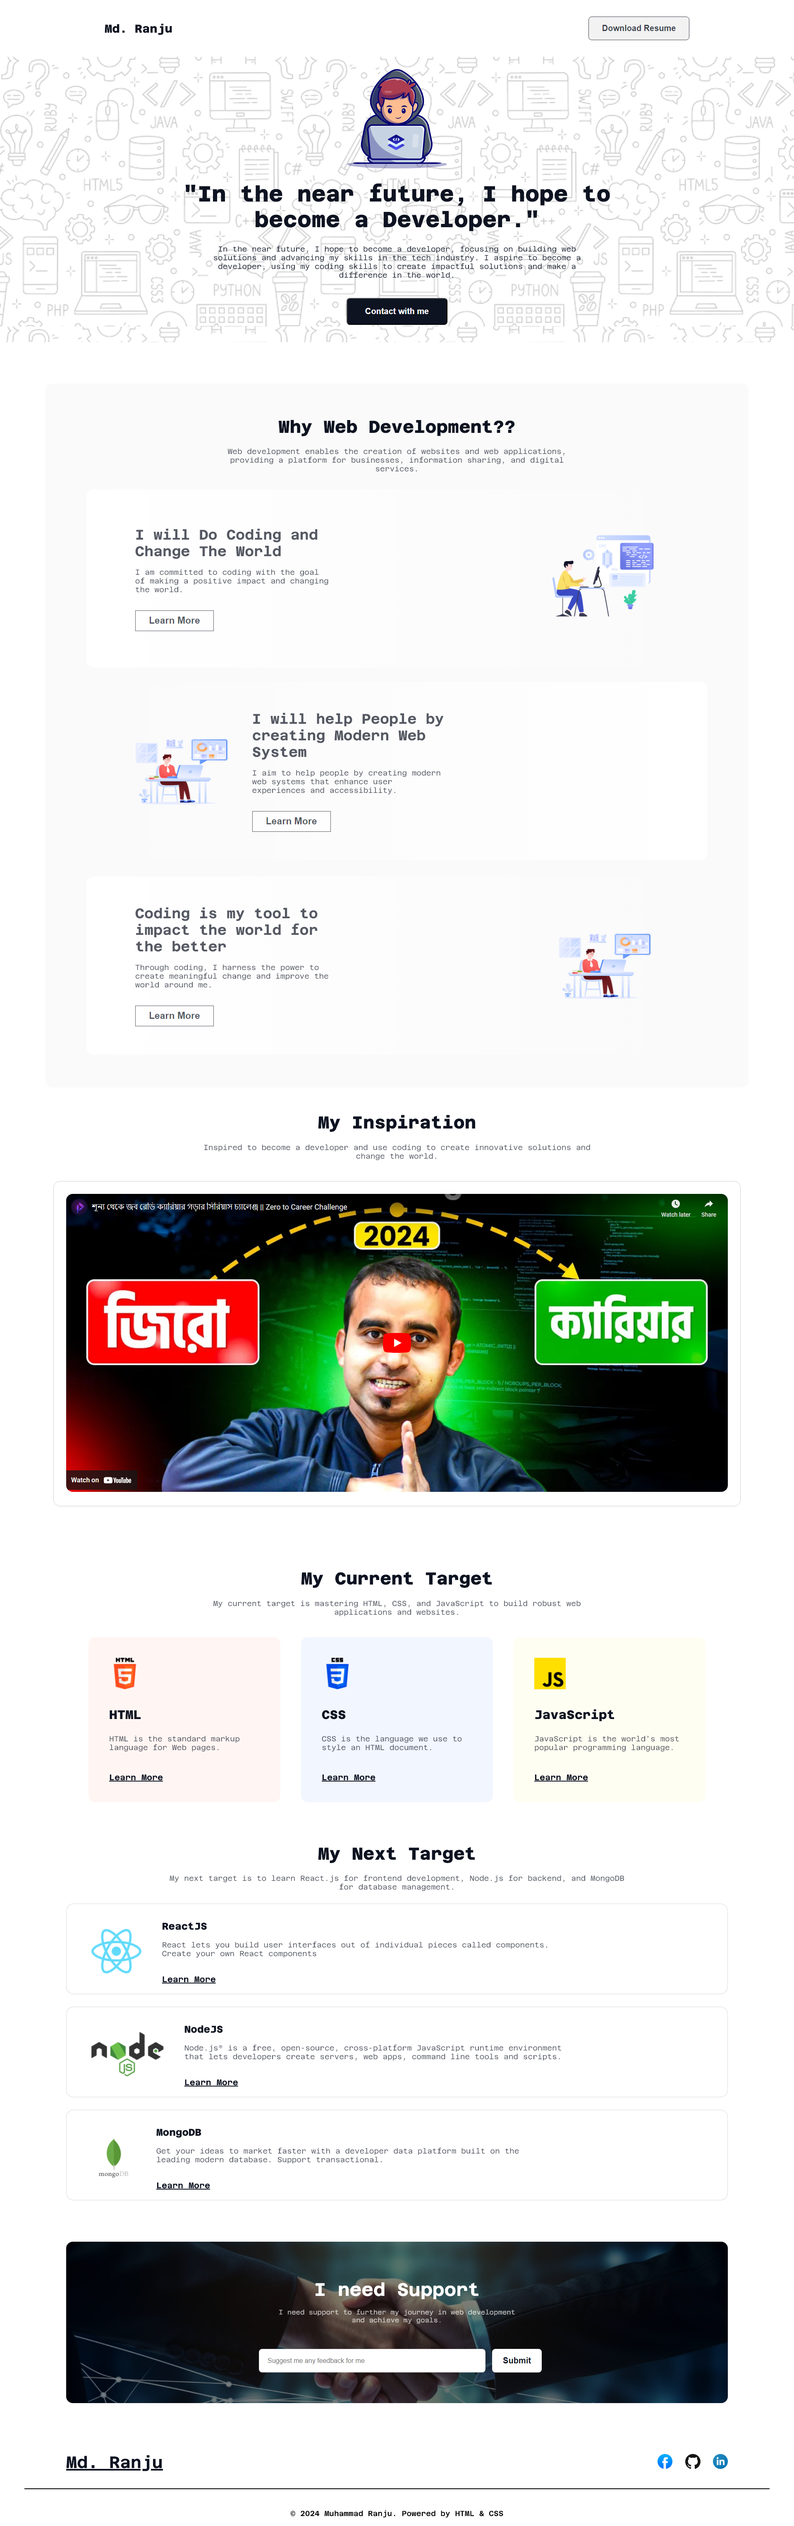
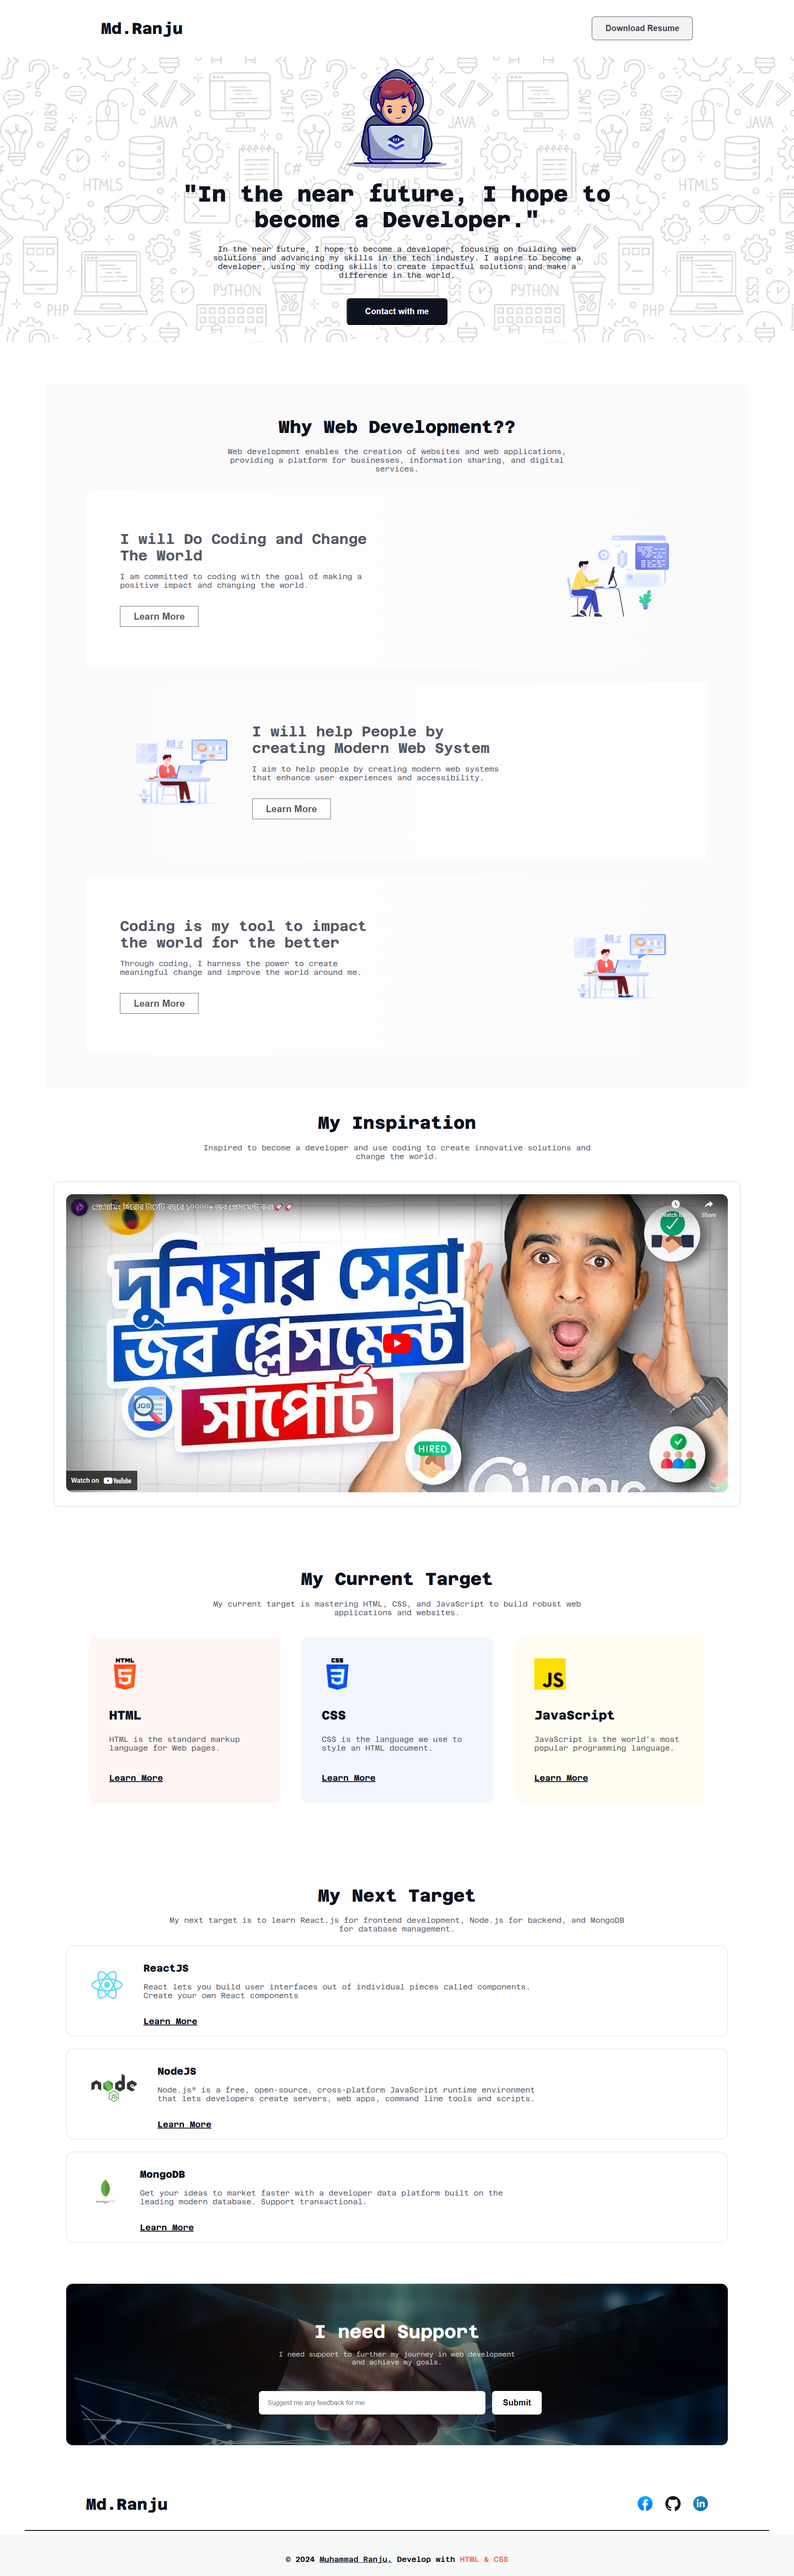
docs: Changing youtube link and change some css code also update assignment screenshot image

diff --git a/styles/style.css b/styles/style.css
@@ -148,12 +148,12 @@ body {
 }
 .dev-item-section-left h1 {
   color: rgba(13, 19, 33, 0.7);
-  width: 490px;
+  width: 600px;
   font-size: 34px;
   font-weight: 700;
 }
 .dev-item-section-left p {
-  width: 468px;
+  width: 600px;
   color: rgba(13, 19, 33, 0.7);
   font-size: 18px;
   font-weight: 400;
@@ -203,12 +203,12 @@ body {
 }
 .dev-item-section-right h1 {
   color: rgba(13, 19, 33, 0.7);
-  width: 490px;
+  width: 600px;
   font-size: 34px;
   font-weight: 700;
 }
 .dev-item-section-right p {
-  width: 468px;
+  width: 600px;
   color: rgba(13, 19, 33, 0.7);
   font-size: 18px;
   font-weight: 400;

diff --git a/index.html b/index.html
@@ -103,7 +103,7 @@
           <iframe
             width="1600"
             height="720"
-            src="https://www.youtube.com/embed/DGHn2uOAVCE?si=IQ-jYeSBku_78HfP"
+            src="https://www.youtube.com/embed/uFIu0Ah7iXY?si=YUnqrQM-EVCzIDpi"
             title="YouTube video player"
             frameborder="0"
             allow="accelerometer; autoplay; clipboard-write; encrypted-media; gyroscope; picture-in-picture; web-share"
